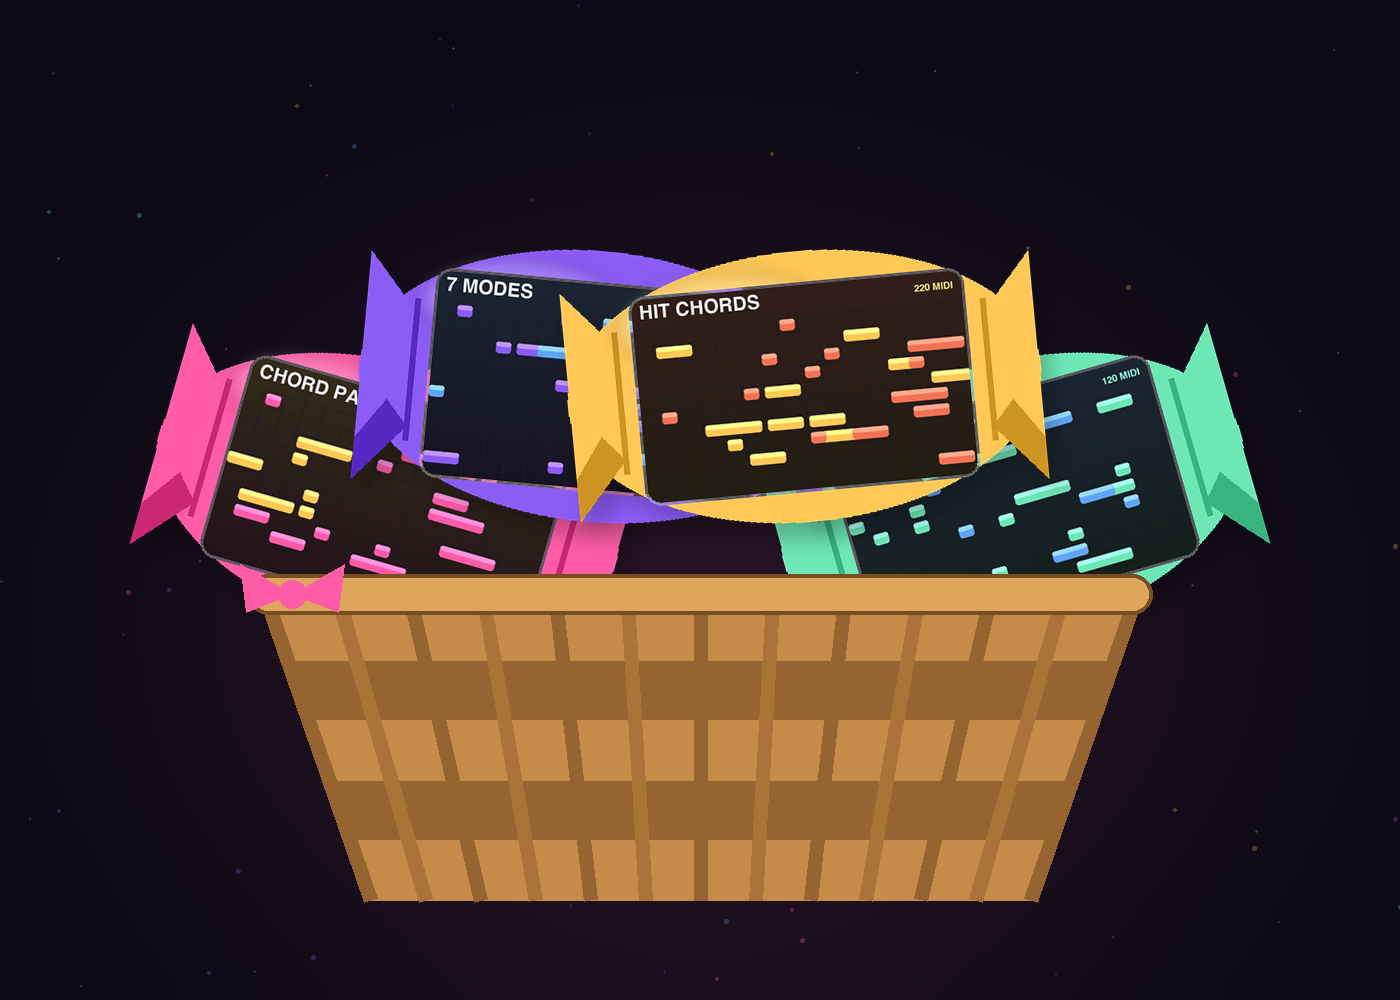
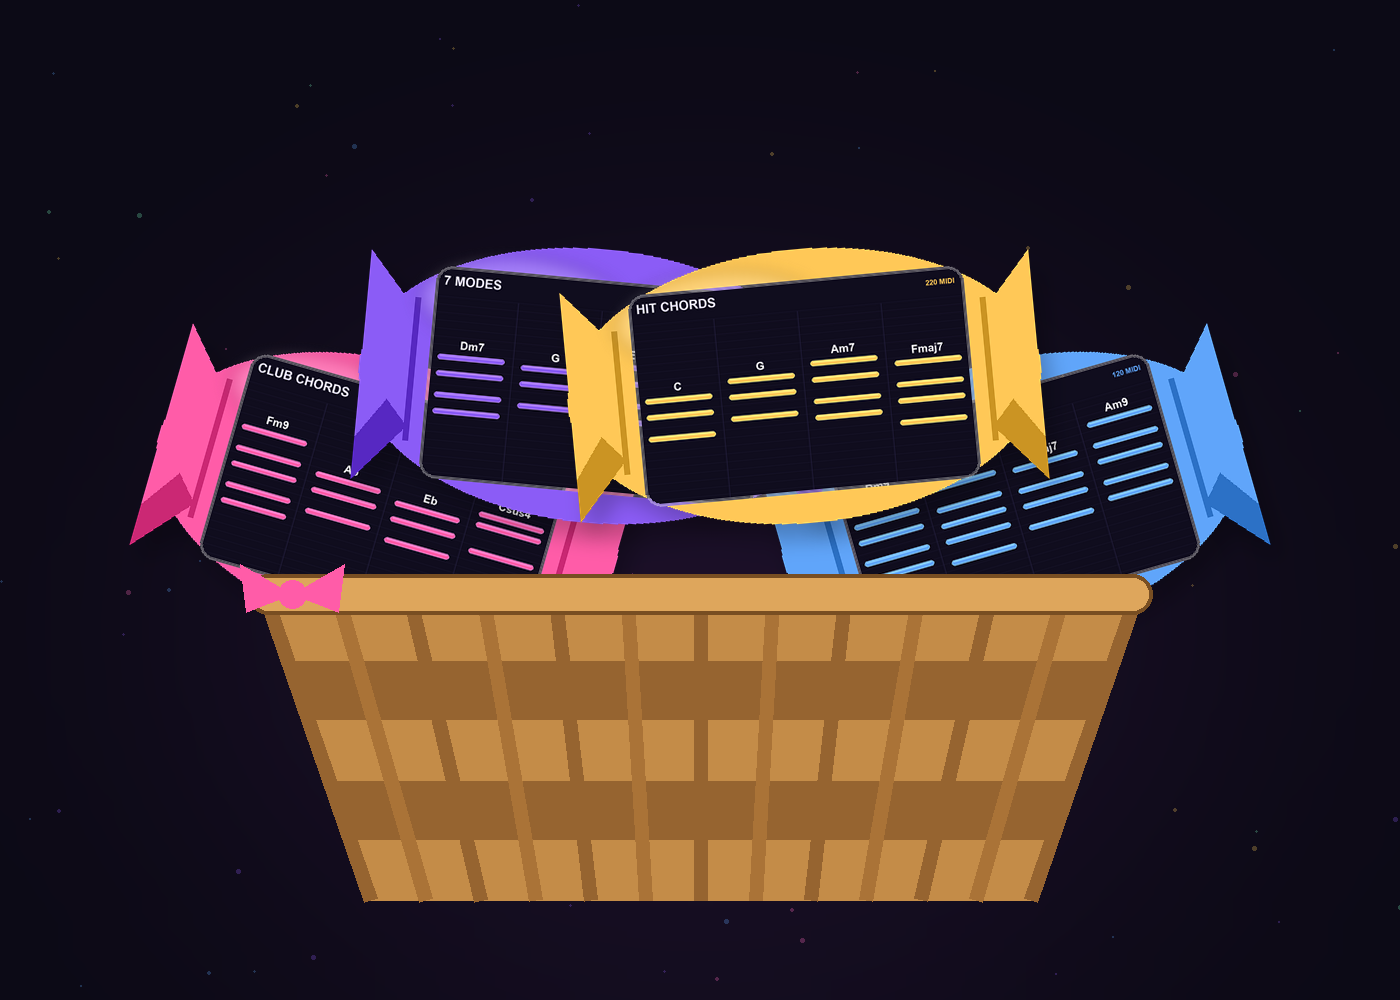
MIDI basket art now shows real chord stacks with names; new ALL 7 MODES BASKET (page + homepage card + art + sitemap)

diff --git a/basket-modes.html b/basket-modes.html
@@ -1,0 +1,178 @@
+<!DOCTYPE html>
+<html lang="en">
+<head>
+<meta charset="UTF-8">
+<meta name="viewport" content="width=device-width, initial-scale=1.0">
+<title>All 7 Modes Basket | Sebastian Macan</title>
+<meta name="description" content="All 7 mode packs from the Modal Series: Ionian, Dorian, Phrygian, Lydian, Mixolydian, Aeolian and Locrian. 336 progressions, every chord true to its mode, the signature color chord in every loop.">
+<meta name="robots" content="index,follow">
+<style>
+  :root { --bg:#0a0a0c; --card:#141418; --txt:#f2f2f4; --dim:#8a8a94; --line:#222228; --g1:#8b5cf6; --g2:#39e6d0; }
+  * { margin:0; padding:0; box-sizing:border-box; }
+  body { background:var(--bg); color:var(--txt); font-family:-apple-system,BlinkMacSystemFont,"Segoe UI",Inter,Roboto,sans-serif; line-height:1.65; }
+  .wrap { max-width:960px; margin:0 auto; padding:0 24px; }
+  header { padding:28px 0; display:flex; justify-content:space-between; align-items:center; }
+  .logo { font-weight:800; letter-spacing:.12em; font-size:15px; text-transform:uppercase; color:var(--txt); text-decoration:none; }
+  .logo span { color:#ff3d5a; }
+  nav a { color:var(--dim); text-decoration:none; margin-left:22px; font-size:14px; }
+  nav a:hover { color:var(--txt); }
+  .back { display:inline-block; margin:18px 0 0; color:var(--dim); text-decoration:none; font-size:14px; }
+  .back:hover { color:var(--txt); }
+  .hero { text-align:center; padding:26px 0 8px; }
+  .kind { font-size:12px; letter-spacing:.16em; text-transform:uppercase; color:var(--dim); font-weight:700; }
+  h1 { font-size:clamp(38px,8vw,72px); font-weight:900; letter-spacing:-.03em; line-height:1.05;
+    background:linear-gradient(135deg,var(--g1),var(--g2)); -webkit-background-clip:text; background-clip:text; -webkit-text-fill-color:transparent; }
+  .tag { font-size:clamp(16px,3vw,21px); font-weight:700; margin-top:8px; }
+  .bimg { display:block; width:min(560px,92%); margin:26px auto 4px; border-radius:20px; animation:float 7s ease-in-out infinite; }
+  @keyframes float { 0%,100%{transform:translateY(0)} 50%{transform:translateY(-8px)} }
+  .pricebar { text-align:center; margin:18px 0 4px; }
+  .pricebar .big { font-size:34px; font-weight:900; }
+  .pricebar s { color:var(--dim); font-weight:700; font-size:20px; margin-right:10px; }
+  .freebie { color:#5ad9d0; font-weight:800; }
+  .meta { color:var(--dim); font-size:13px; margin-top:10px; text-align:center; }
+  h2 { font-size:clamp(22px,4vw,30px); font-weight:900; letter-spacing:-.02em; margin:48px 0 6px; }
+  .sub { color:var(--dim); font-size:14.5px; margin-bottom:18px; }
+  .item { background:var(--card); border:1px solid var(--line); border-radius:16px; padding:18px 22px; margin:12px 0;
+    display:flex; justify-content:space-between; align-items:center; gap:18px; flex-wrap:wrap; }
+  .ikind { font-size:11px; letter-spacing:.14em; text-transform:uppercase; color:var(--dim); font-weight:700; }
+  .iname { font-size:21px; font-weight:900; letter-spacing:-.01em;
+    background:linear-gradient(135deg,var(--g1),var(--g2)); -webkit-background-clip:text; background-clip:text; -webkit-text-fill-color:transparent; }
+  .itag { color:#c8c8d0; font-size:14px; }
+  .rowlink { color:var(--dim); font-size:13px; text-decoration:none; }
+  .rowlink:hover { color:var(--txt); }
+  .iact { text-align:right; display:flex; align-items:center; gap:16px; }
+  .iprice { color:var(--dim); font-weight:700; }
+  .iprice s { font-size:15px; }
+  .freetag { color:#5ad9d0; font-size:12px; font-weight:800; letter-spacing:.06em; }
+  .dl { display:inline-block; color:#fff; font-weight:800; font-size:15px; padding:12px 28px; border-radius:999px; text-decoration:none;
+    background:linear-gradient(135deg,var(--g1),var(--g2)); box-shadow:0 6px 26px rgba(0,0,0,.4); transition:transform .15s; }
+  .dl:hover { transform:translateY(-2px) scale(1.02); }
+  .idl { font-size:14px; padding:10px 22px; }
+  .cta { text-align:center; margin:34px 0 8px; }
+  .cta .dl { font-size:17px; padding:16px 44px; }
+  .mathbox { background:var(--card); border:1px solid var(--line); border-radius:16px; padding:20px 24px; margin:30px 0 8px; text-align:center; }
+  .mathbox b { color:var(--txt); }
+  footer { border-top:1px solid var(--line); margin-top:72px; padding:32px 0 48px; color:var(--dim); font-size:13px; display:flex; justify-content:space-between; flex-wrap:wrap; gap:12px; }
+  footer a { color:var(--dim); }
+  @media (max-width:640px){ .wrap{padding:0 16px;} header{flex-direction:column;gap:10px;} footer{flex-direction:column;text-align:center;} .iact{width:100%;justify-content:space-between;} }
+</style>
+</head>
+<body>
+<div class="wrap">
+  <header>
+    <a class="logo" href="/">SEBASTIAN<span>MACAN</span></a>
+    <nav><a href="/#effects">Effects</a><a href="/#instruments">Instruments</a><a href="/#midi">MIDI</a></nav>
+  </header>
+  <a class="back" href="/#bundles">&larr; Back to the baskets</a>
+
+  <section class="hero">
+    <div class="kind">Candy Basket</div>
+    <h1>ALL 7 MODES BASKET</h1>
+    <p class="tag">The whole Modal Series. Every secret flavor in one basket.</p>
+    <img class="bimg" src="img/bundles/modes_bundle.png" alt="ALL 7 MODES BASKET basket art">
+    <div class="pricebar"><span class="big"><s>$70</s> $39</span> <span class="freebie">&middot; free during launch</span></div>
+    <div class="meta">7 packs · 336 MIDI files · any DAW</div>
+    <div class="cta" style="margin-top:22px;"><a class="dl" href="downloads/AllModes336-SebastianMacan.zip">Download all 7 modes</a></div>
+  </section>
+
+  <h2>What's in the basket</h2>
+  <p class="sub">All 7 mode packs from the Modal Series: Ionian, Dorian, Phrygian, Lydian, Mixolydian, Aeolian and Locrian. 336 progressions, every chord true to its mode, the signature color chord in every loop. Every item below is yours &mdash; grab them one by one, all free during launch.</p>
+    <div class="item">
+      <div class="iinfo">
+        <div class="ikind">MIDI Mode Pack</div>
+        <div class="iname">Ionian Mode 48</div>
+        <p class="itag">48 progressions. The bright classic.</p>
+        
+      </div>
+      <div class="iact">
+        <div class="iprice"><s>$10</s></div>
+        <a class="dl idl" href="downloads/IonianMode48-SebastianMacan.zip">Download</a>
+      </div>
+    </div>
+    <div class="item">
+      <div class="iinfo">
+        <div class="ikind">MIDI Mode Pack</div>
+        <div class="iname">Dorian Mode 48</div>
+        <p class="itag">48 progressions. Smooth and soulful.</p>
+        
+      </div>
+      <div class="iact">
+        <div class="iprice"><s>$10</s></div>
+        <a class="dl idl" href="downloads/DorianMode48-SebastianMacan.zip">Download</a>
+      </div>
+    </div>
+    <div class="item">
+      <div class="iinfo">
+        <div class="ikind">MIDI Mode Pack</div>
+        <div class="iname">Phrygian Mode 48</div>
+        <p class="itag">48 progressions. Dark and exotic.</p>
+        
+      </div>
+      <div class="iact">
+        <div class="iprice"><s>$10</s></div>
+        <a class="dl idl" href="downloads/PhrygianMode48-SebastianMacan.zip">Download</a>
+      </div>
+    </div>
+    <div class="item">
+      <div class="iinfo">
+        <div class="ikind">MIDI Mode Pack</div>
+        <div class="iname">Lydian Mode 48</div>
+        <p class="itag">48 progressions. Dreamy and floating.</p>
+        
+      </div>
+      <div class="iact">
+        <div class="iprice"><s>$10</s></div>
+        <a class="dl idl" href="downloads/LydianMode48-SebastianMacan.zip">Download</a>
+      </div>
+    </div>
+    <div class="item">
+      <div class="iinfo">
+        <div class="ikind">MIDI Mode Pack</div>
+        <div class="iname">Mixolydian Mode 48</div>
+        <p class="itag">48 progressions. Groovy and warm.</p>
+        
+      </div>
+      <div class="iact">
+        <div class="iprice"><s>$10</s></div>
+        <a class="dl idl" href="downloads/MixolydianMode48-SebastianMacan.zip">Download</a>
+      </div>
+    </div>
+    <div class="item">
+      <div class="iinfo">
+        <div class="ikind">MIDI Mode Pack</div>
+        <div class="iname">Aeolian Mode 48</div>
+        <p class="itag">48 progressions. The minor mood.</p>
+        
+      </div>
+      <div class="iact">
+        <div class="iprice"><s>$10</s></div>
+        <a class="dl idl" href="downloads/AeolianMode48-SebastianMacan.zip">Download</a>
+      </div>
+    </div>
+    <div class="item">
+      <div class="iinfo">
+        <div class="ikind">MIDI Mode Pack</div>
+        <div class="iname">Locrian Mode 48</div>
+        <p class="itag">48 progressions. The forbidden one.</p>
+        
+      </div>
+      <div class="iact">
+        <div class="iprice"><s>$10</s></div>
+        <a class="dl idl" href="downloads/LocrianMode48-SebastianMacan.zip">Download</a>
+      </div>
+    </div>
+
+  <div class="cta"><a class="dl" href="downloads/AllModes336-SebastianMacan.zip">Download all 7 modes</a><div class="meta">One zip, everything inside. Download once, unzip, done.</div></div>
+
+  <div class="mathbox">
+    Bought one by one this basket adds up to <b>$70</b>. As a basket it's <b>$39</b> when checkout opens &mdash; and <b>free right now during launch</b>. 7 items, zero catches.
+  </div>
+
+  <footer>
+    <div>&copy; 2026 Aluetion, LLC &middot; Sebastian Macan</div>
+    <div><a href="pricing.html">Pricing</a> &middot; <a href="terms.html">Terms</a> &middot; <a href="refunds.html">Refunds</a> &middot; <a href="privacy.html">Privacy</a></div>
+  </footer>
+</div>
+<script src="js/email-gate.js" defer></script>
+</body>
+</html>

diff --git a/index.html b/index.html
@@ -99,6 +99,7 @@
   .everything-b { --g1:#ff3d5a; --g2:#ffd84a; --glow:#ff3d5a; --shadow:rgba(255,61,90,.28); }
   .midi-b { --g1:#ff5ca8; --g2:#8b5cf6; --glow:#ff5ca8; --shadow:rgba(255,92,168,.28); }
   .lofi-b { --g1:#f5a623; --g2:#2bb59a; --glow:#f5a623; --shadow:rgba(245,166,35,.26); }
+  .modes-b { --g1:#8b5cf6; --g2:#39e6d0; --glow:#8b5cf6; --shadow:rgba(139,92,246,.24); }
   .bundle .dl { display:inline-block; margin-top:14px; padding:12px 22px; border-radius:12px; color:#0a0a0c; font-weight:900; text-decoration:none; align-self:flex-start; }
   a.bundle { text-decoration:none; color:var(--txt); cursor:pointer; }
   .bopen { color:#fff; }
@@ -315,6 +316,15 @@
         <p class="desc">Every MIDI pack we make. 3 genre chord packs + all 7 mode packs. 796 progressions, the complete harmonic arsenal in one basket.</p>
         <div class="price"><s>$115</s> $49 <span class="freebie">· free during launch</span></div>
         <span class="dl bopen" style="background:linear-gradient(135deg,#ff5ca8,#8b5cf6);">Open the basket</span>
+      </div>
+    </a>
+    <a class="bundle modes-b" href="basket-modes.html">
+      <img src="img/bundles/modes_bundle.png" alt="All 7 Modes Basket: the complete Modal Series as wrapped candy in a basket" loading="lazy">
+      <div class="binner">
+        <h3>ALL 7 MODES BASKET</h3>
+        <p class="desc">The whole Modal Series in one basket. All 7 modes, 336 progressions, every secret flavor from Dorian to Locrian.</p>
+        <div class="price"><s>$70</s> $39 <span class="freebie">&middot; free during launch</span></div>
+        <span class="dl bopen" style="background:linear-gradient(135deg,#8b5cf6,#39e6d0);">Open the basket</span>
       </div>
     </a>
     <a class="bundle lofi-b" href="basket-lofi.html">

diff --git a/gen_baskets.py b/gen_baskets.py
@@ -36,6 +36,16 @@ BASKETS = [
         "big_dl": ("Download all 796", "downloads/MIDIMega796-SebastianMacan.zip"),
     },
     {
+        "file": "basket-modes.html", "title": "ALL 7 MODES BASKET", "price": 39, "img": "img/bundles/modes_bundle.png",
+        "g1": "#8b5cf6", "g2": "#39e6d0",
+        "tag": "The whole Modal Series. Every secret flavor in one basket.",
+        "desc": "All 7 mode packs from the Modal Series: Ionian, Dorian, Phrygian, Lydian, Mixolydian, Aeolian and Locrian. 336 progressions, every chord true to its mode, the signature color chord in every loop.",
+        "items": ["Ionian Mode 48", "Dorian Mode 48", "Phrygian Mode 48", "Lydian Mode 48",
+                  "Mixolydian Mode 48", "Aeolian Mode 48", "Locrian Mode 48"],
+        "meta": "7 packs · 336 MIDI files · any DAW",
+        "big_dl": ("Download all 7 modes", "downloads/AllModes336-SebastianMacan.zip"),
+    },
+    {
         "file": "basket-lofi.html", "title": "LOFI BUNDLE", "price": 25, "img": "img/bundles/lofi_bundle.png",
         "g1": "#f5a623", "g2": "#2bb59a",
         "tag": "The bedroom lofi starter kit. Tape and birdsong.",
